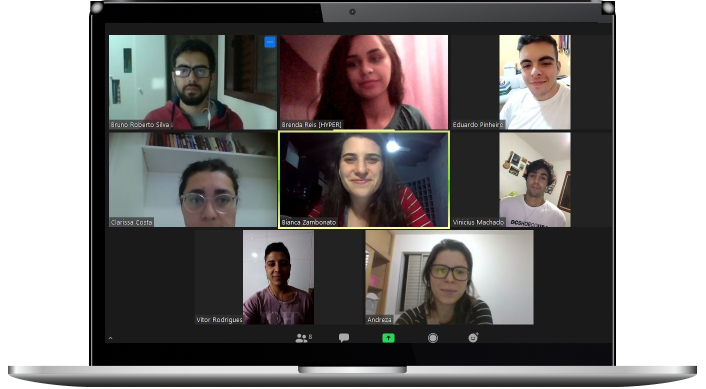
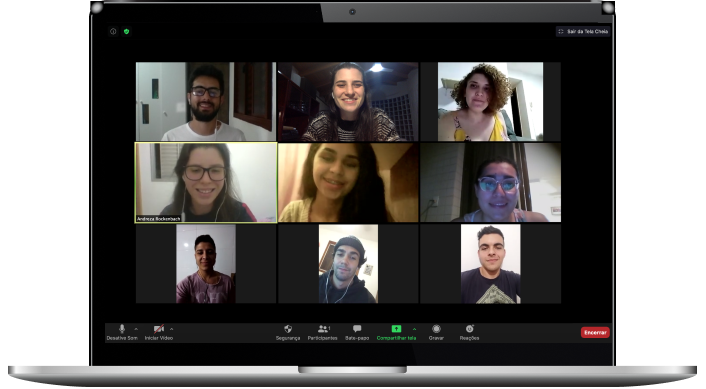
Mockup atualizado e padding ajustado

diff --git a/assets/css/main.css b/assets/css/main.css
@@ -223,7 +223,7 @@
   .who-are .content {
     height: 100%;
     width: 40%;
-    padding: 0 175px 0 75px;
+    padding: 0 20px 0 120px;
     display: flex;
     font-size: 12pt;
     flex-direction: column;
@@ -341,4 +341,4 @@ body {
   font-family: Raleway;
   overflow-x: hidden; }
 
[2 lines of base64/hex data omitted]

diff --git a/src/sass/_who-are.scss b/src/sass/_who-are.scss
@@ -8,7 +8,7 @@
   .content{
     height: 100%;
     width: 40%;
-    padding: 0 175px 0 75px;
+    padding: 0 20px 0 120px;
     display: flex;
     font-size: 12pt;
     flex-direction: column;
